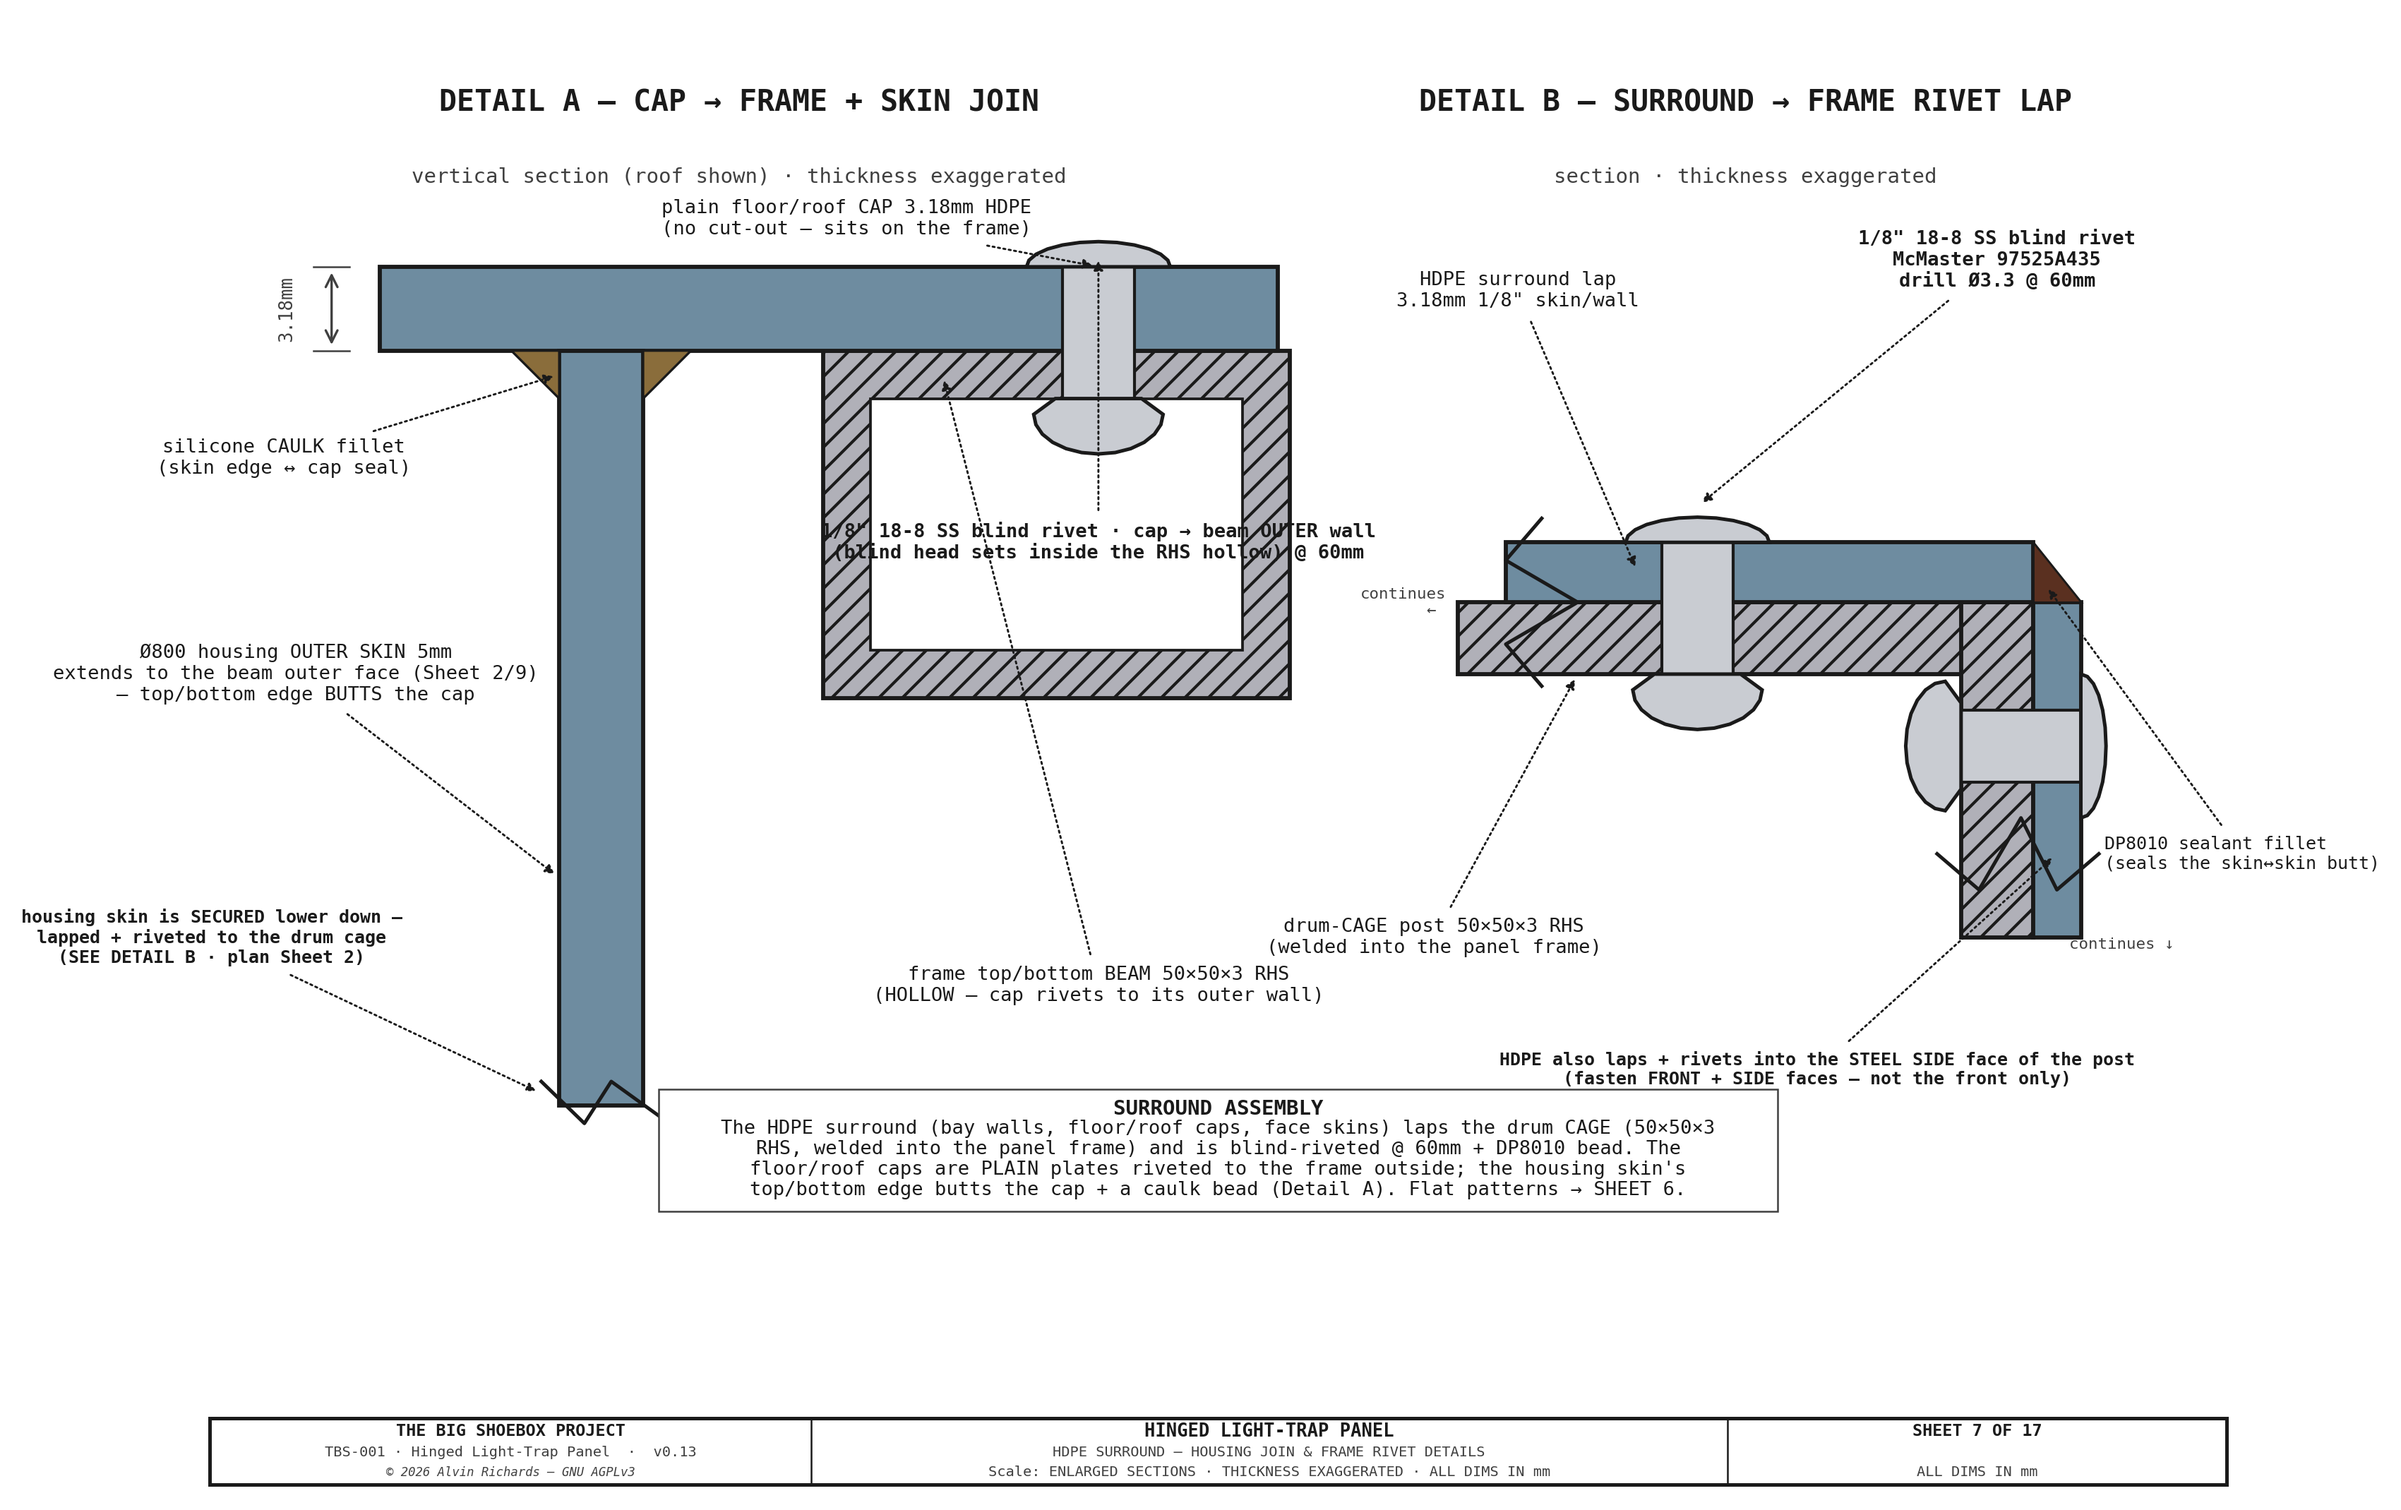
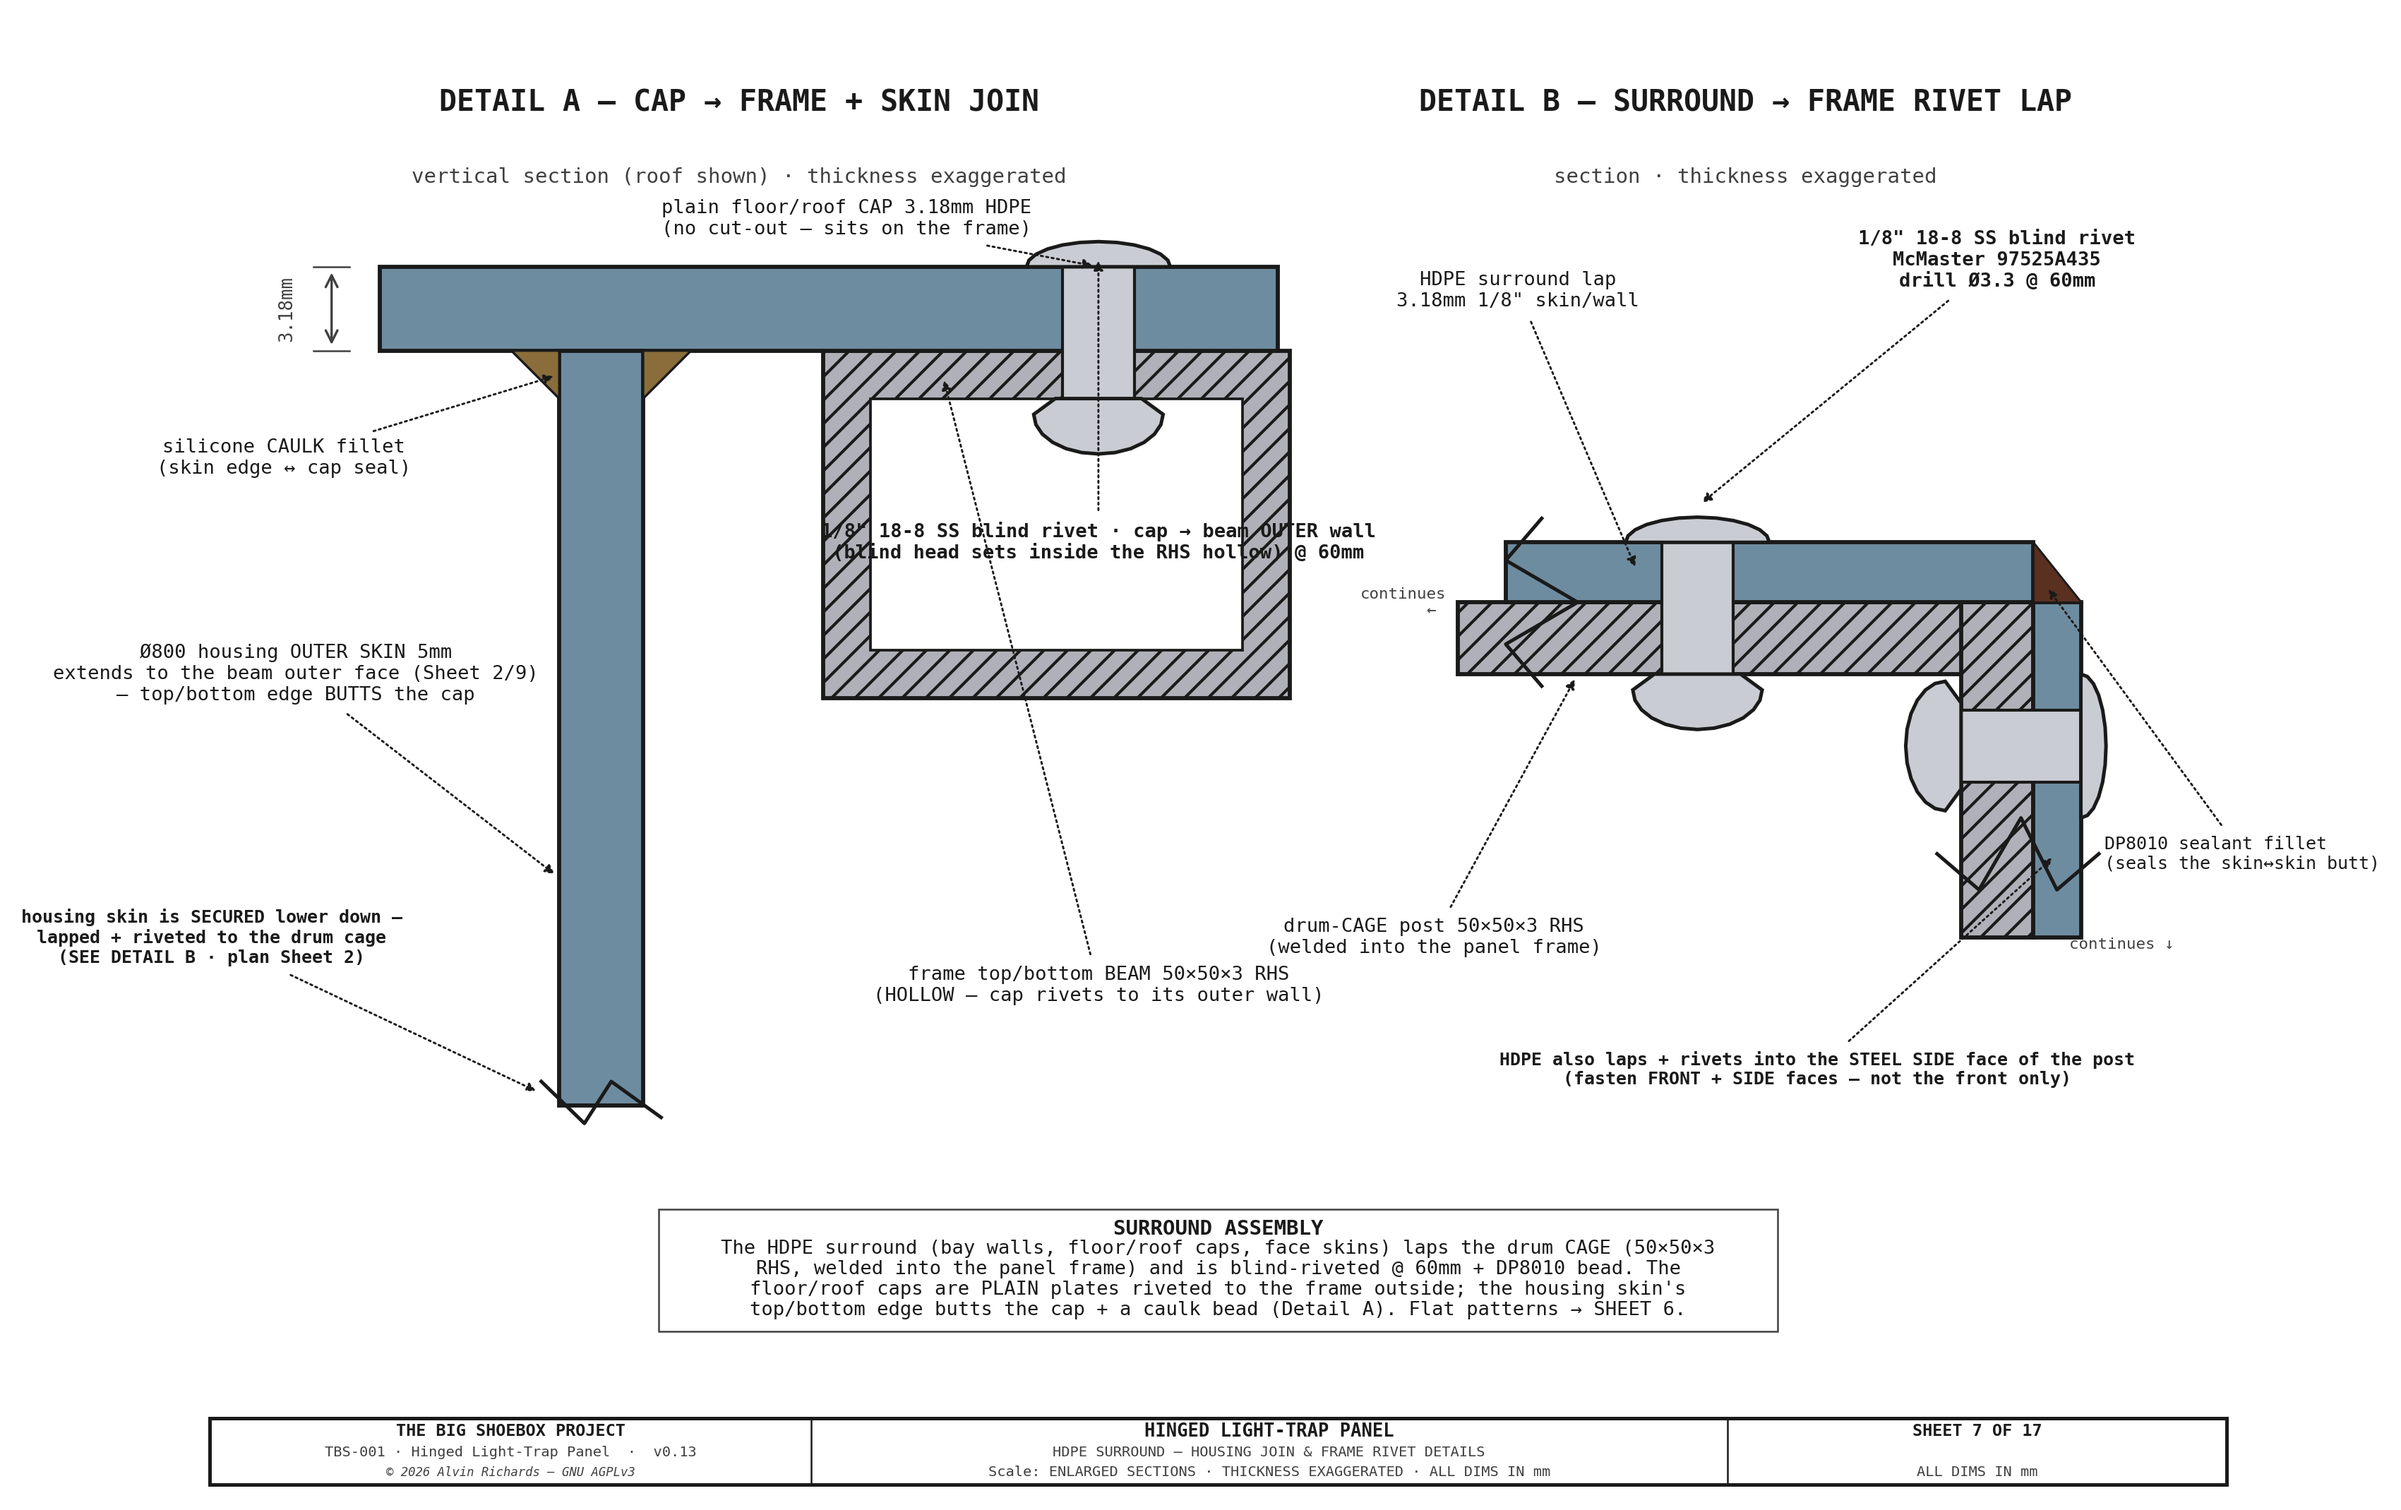
Tidy labels

Changed region(s): [[0.3117, 0.7097, 0.7168, 0.8948]]

diff --git a/src/generators/generate_hingepanel_diagram.py b/src/generators/generate_hingepanel_diagram.py
@@ -1851,7 +1851,7 @@ def sheet7():
     draw_notes(ax, [
         "SURROUND ASSEMBLY",
         f"The HDPE surround (bay walls, floor/roof caps, face skins) laps the drum CAGE (50×50×3 RHS, welded into the panel frame) and is blind-riveted @ {LT_RIVET_PITCH}mm + DP8010 bead. The floor/roof caps are PLAIN plates riveted to the frame outside; the housing skin's top/bottom edge butts the cap + a caulk bead (Detail A). Flat patterns → SHEET 6.",
-    ], 170, 25, spacing=3.4, fs=6.5, title_fs=7.0, ha="center",
+    ], 170, 5, spacing=3.4, fs=6.5, title_fs=7.0, ha="center",
        color=C_OUT, title_color=C_OUT, width=180, wrap=88,
        border_color=C_DIM, font=FONT)
 
